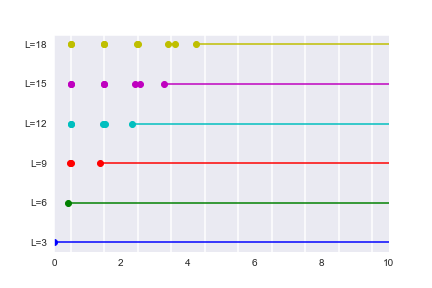
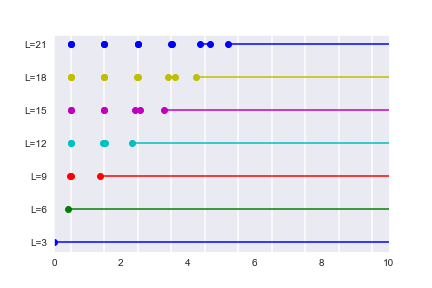
accelerate with sub hyperparameters first

diff --git a/bootstrap_sympy.py b/bootstrap_sympy.py
@@ -90,10 +90,10 @@ def plot_energy_interval(energy_intervals, energy_eigenvalues, config):
         if type(energy_intervals[i]) == sp.Interval:
             # only one interval
             x_plot = [float(energy_intervals[i].inf), min(1e9, float(energy_intervals[i].sup))]
-            ax.plot(x_plot, y_plot, marker='o', color = color_list[i])
+            ax.plot(x_plot, y_plot, marker='o', color = color_list[(i)%len(color_list)])
         else:
             # union of intervals
             for plot_interval in energy_intervals[i].args:
                 x_plot = [float(plot_interval.inf), min(1e9, float(plot_interval.sup))]
-                ax.plot(x_plot, y_plot, marker='o', color = color_list[i])
+                ax.plot(x_plot, y_plot, marker='o', color = color_list[(i)%len(color_list)])
     return fig, ax
